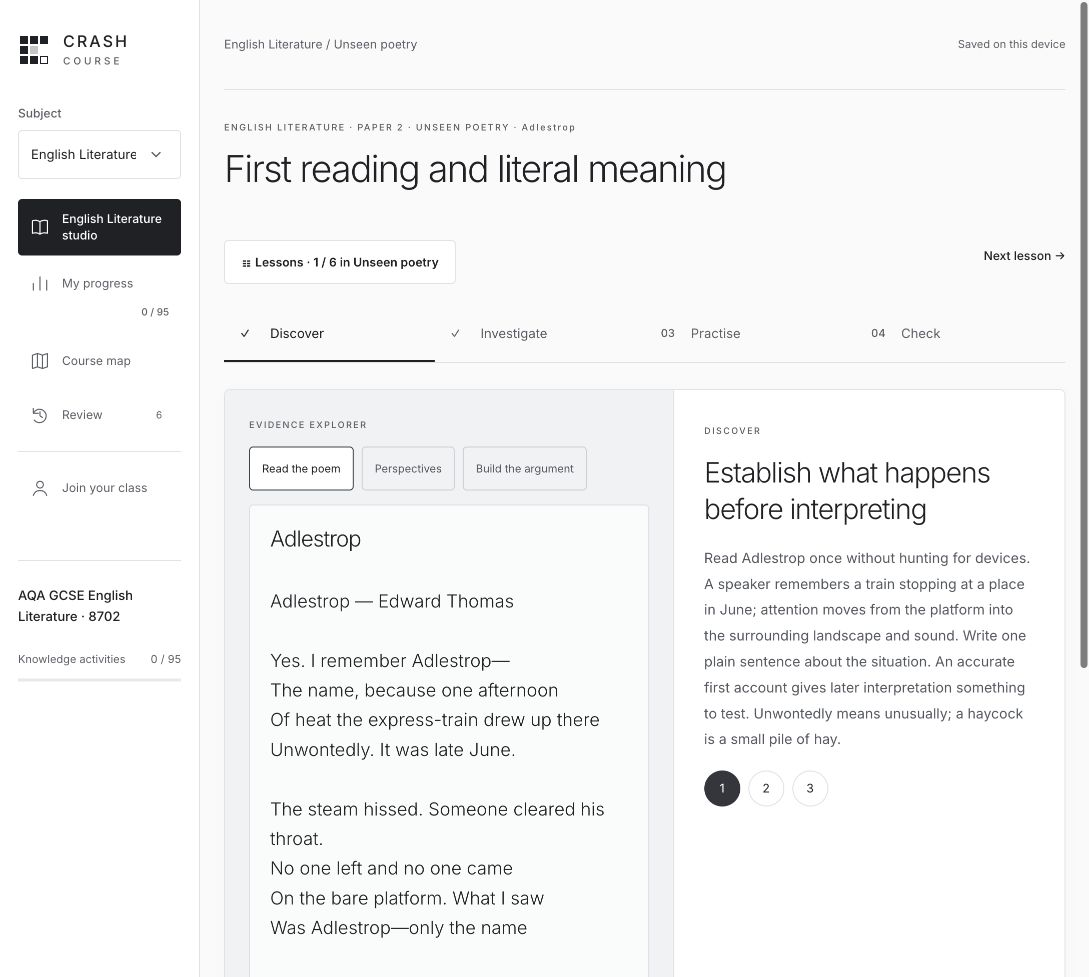
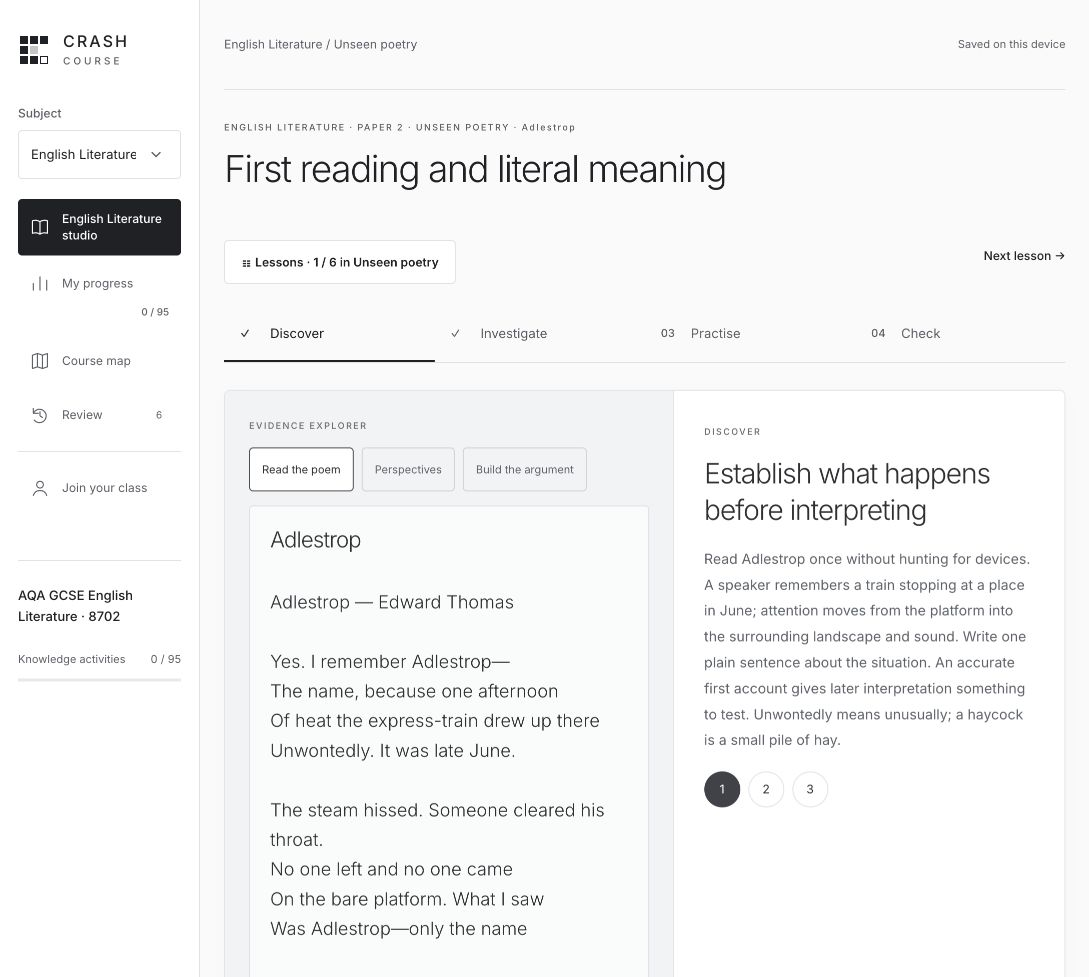
Record verified twenty-lesson Literature release

diff --git a/BUILD_PLAN.md b/BUILD_PLAN.md
@@ -1,3 +1,7 @@
+## Literature batch9 publication receipt — recorded29October2026
+
+Twenty units successfully published28October19:08:25UTC.95Literaturebuilt/80planned;all15anthologypoems paired in original36core,6unseen/5skillsunits. Canonicalappfdf99b3a1ff7603dc88000832a3773a1754e41b6 pushed/remoteverified beforepackaging. Sitesource54b641c403b6b7d0a423dc83f68345b270c4f48d;713authoredfrontendfileshash-match. Deploymentappgdep_6ae248186cf8819196903918f7c1fb86;versionappgprj_6ad1be5897a88191909a03ad57857103~appgver_a816bb1aac64819188f056a33445ef2d;nativestatussucceeded. URL https://gcse-science-atom-lab.anaxied.chatgpt.site ;owner-privateaudienceunchanged;staticlessons/unconfiguredclassroomdemo,AIkeysetupdeferred.849fulltests/1PostgresRLSskipped;60finalfocused;old75recordsunchanged;actualunseenwrongretry/autonext/draft/independentpairrevision/phoneevidence recorded. Specialist/writingreviewoutstanding. Screenshotrefreshedafterpublicationwithoutappchanges. Next20remaining3originalskillsunits,15Macbethworkshops,first2Carolworkshops.
+
 ## Literature batch9 — twenty lessons, 28 October 2026
 
 Userrequested20perbatch. Implemented Historymethods,Kamikazepair,6coreanthologycomparisons,6unseenunits andfirst5dedicatedskillsunits.95Literaturebuilt/80planned inworking175allocation;350sharedEnglishbudgetunchanged. All15anthologypoems nowhavemeaning/methodpairs;original36coreunits complete,13extendedpoetryworkshops remain. Unseen6of15/Skills5of20;6availableLiteraturetopics. Completeinlinepublicdomain unfamiliarpoems9by6writers, sources/editions recorded in reading-texts09.js;Dickinsonearly1891editionexplicit, no moderneditioncopy. Protectedanthologyoriginalcommentaryonly. New60practice80checks;285practice380checks665uniqueIDs;285representativecoveragerows. Teacherassignmentcatalogue926lessons, existingclassroomhooks/demo andTesseralightstylepreserved.

diff --git a/BUILD_STATUS.md b/BUILD_STATUS.md
@@ -1,3 +1,7 @@
+## Literature batch9 publication receipt — recorded29October2026
+
+Twenty units successfully published28October19:08:25UTC.95Literaturebuilt/80planned;all15anthologypoems paired in original36core,6unseen/5skillsunits. Canonicalappfdf99b3a1ff7603dc88000832a3773a1754e41b6 pushed/remoteverified beforepackaging. Sitesource54b641c403b6b7d0a423dc83f68345b270c4f48d;713authoredfrontendfileshash-match. Deploymentappgdep_6ae248186cf8819196903918f7c1fb86;versionappgprj_6ad1be5897a88191909a03ad57857103~appgver_a816bb1aac64819188f056a33445ef2d;nativestatussucceeded. URL https://gcse-science-atom-lab.anaxied.chatgpt.site ;owner-privateaudienceunchanged;staticlessons/unconfiguredclassroomdemo,AIkeysetupdeferred.849fulltests/1PostgresRLSskipped;60finalfocused;old75recordsunchanged;actualunseenwrongretry/autonext/draft/independentpairrevision/phoneevidence recorded. Specialist/writingreviewoutstanding. Screenshotrefreshedafterpublicationwithoutappchanges. Next20remaining3originalskillsunits,15Macbethworkshops,first2Carolworkshops.
+
 ## Literature batch9 — twenty lessons, 28 October 2026
 
 Userrequested20perbatch. Implemented Historymethods,Kamikazepair,6coreanthologycomparisons,6unseenunits andfirst5dedicatedskillsunits.95Literaturebuilt/80planned inworking175allocation;350sharedEnglishbudgetunchanged. All15anthologypoems nowhavemeaning/methodpairs;original36coreunits complete,13extendedpoetryworkshops remain. Unseen6of15/Skills5of20;6availableLiteraturetopics. Completeinlinepublicdomain unfamiliarpoems9by6writers, sources/editions recorded in reading-texts09.js;Dickinsonearly1891editionexplicit, no moderneditioncopy. Protectedanthologyoriginalcommentaryonly. New60practice80checks;285practice380checks665uniqueIDs;285representativecoveragerows. Teacherassignmentcatalogue926lessons, existingclassroomhooks/demo andTesseralightstylepreserved.
